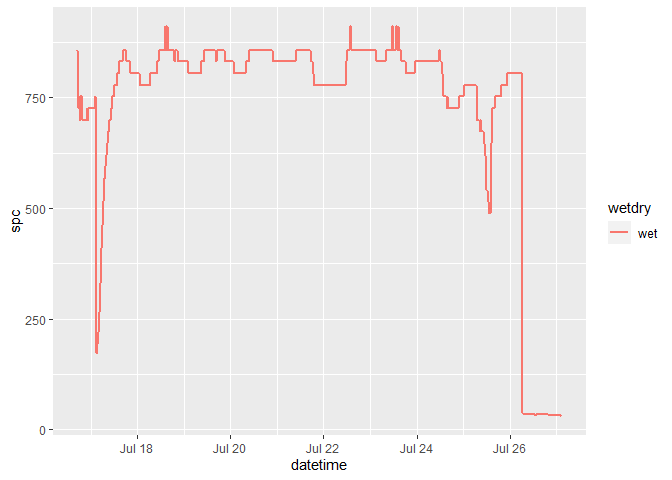
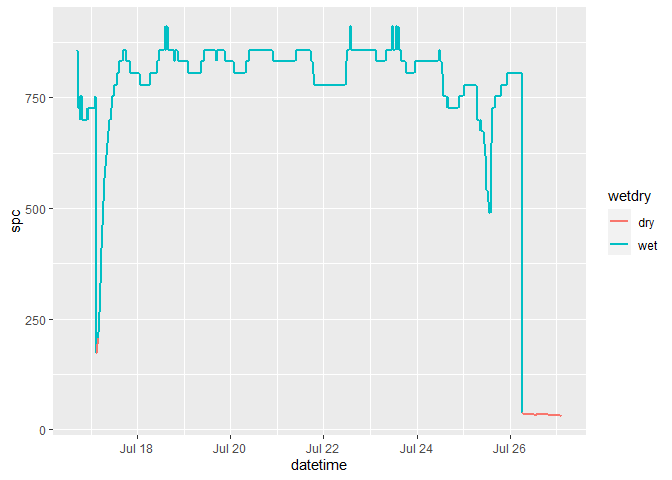
fixed last figure in readme

diff --git a/README.md b/README.md
@@ -152,7 +152,7 @@ versus dry periods.
 
 ``` r
 library(ggplot2)
-ggplot(classified_df, aes(x = datetime, y = spc, color = wetdry, group = 2)) +
+ggplot(classified_df, aes(x = datetime, y = spc, color = wetdry, group = 1)) +
   geom_path(size = 1)
 ```
 
